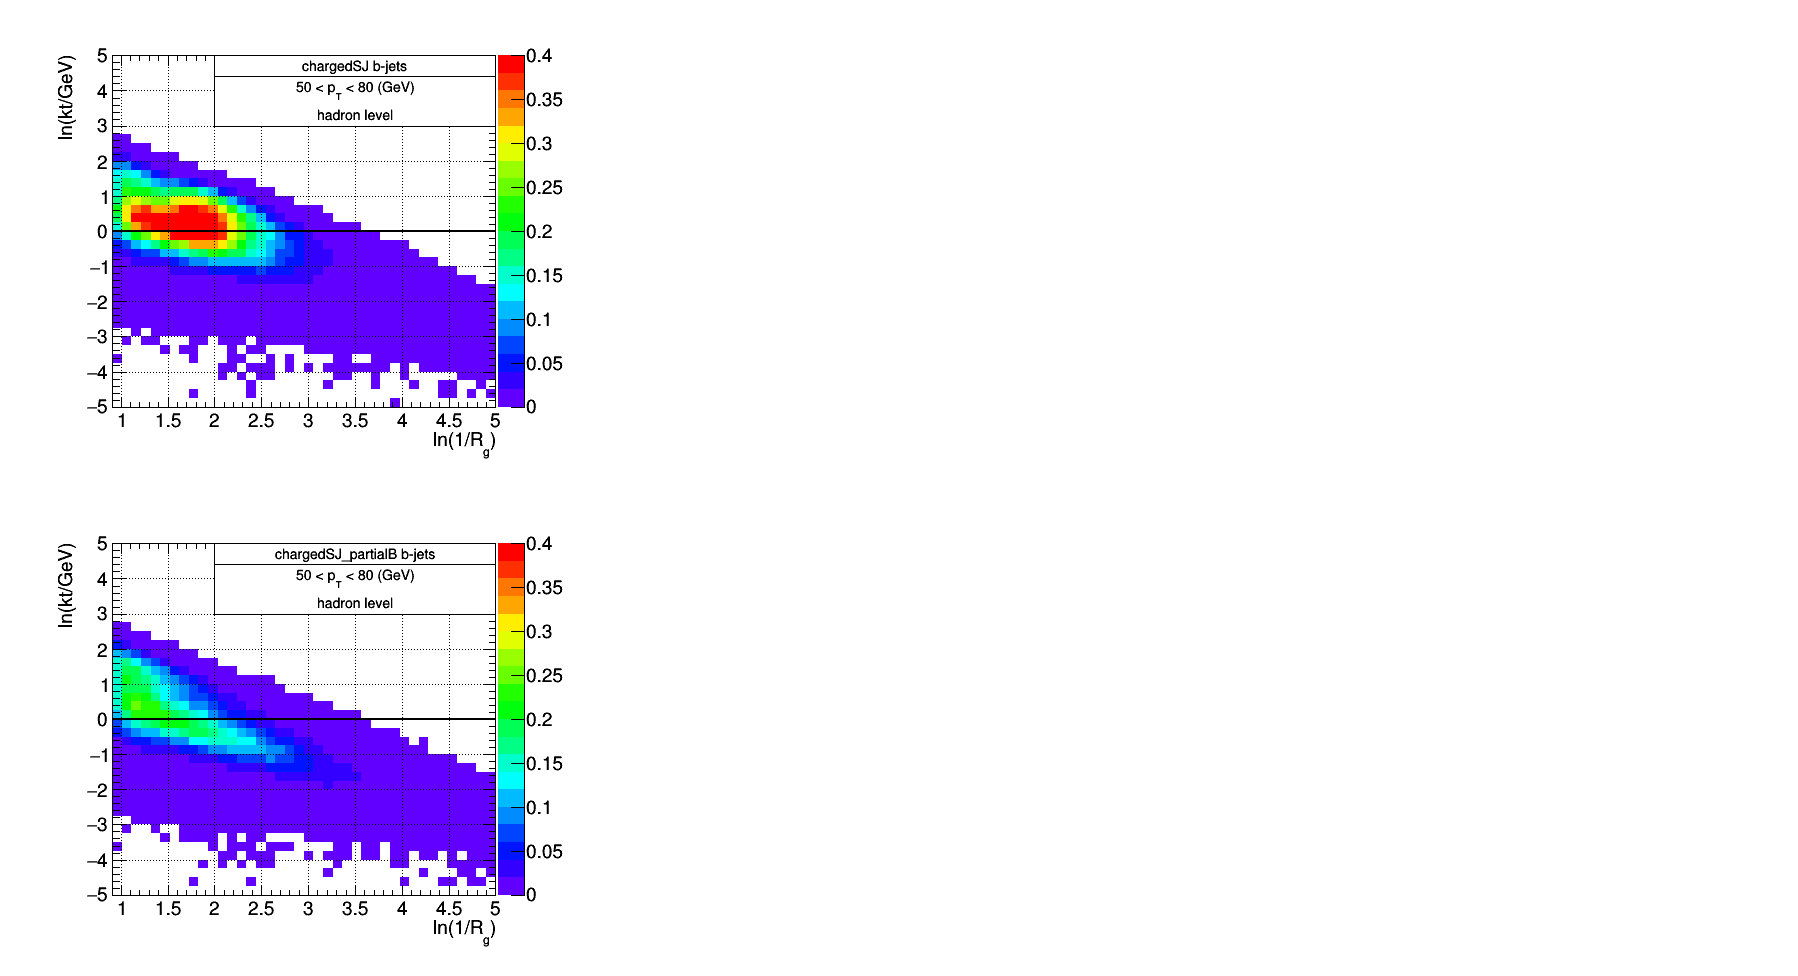
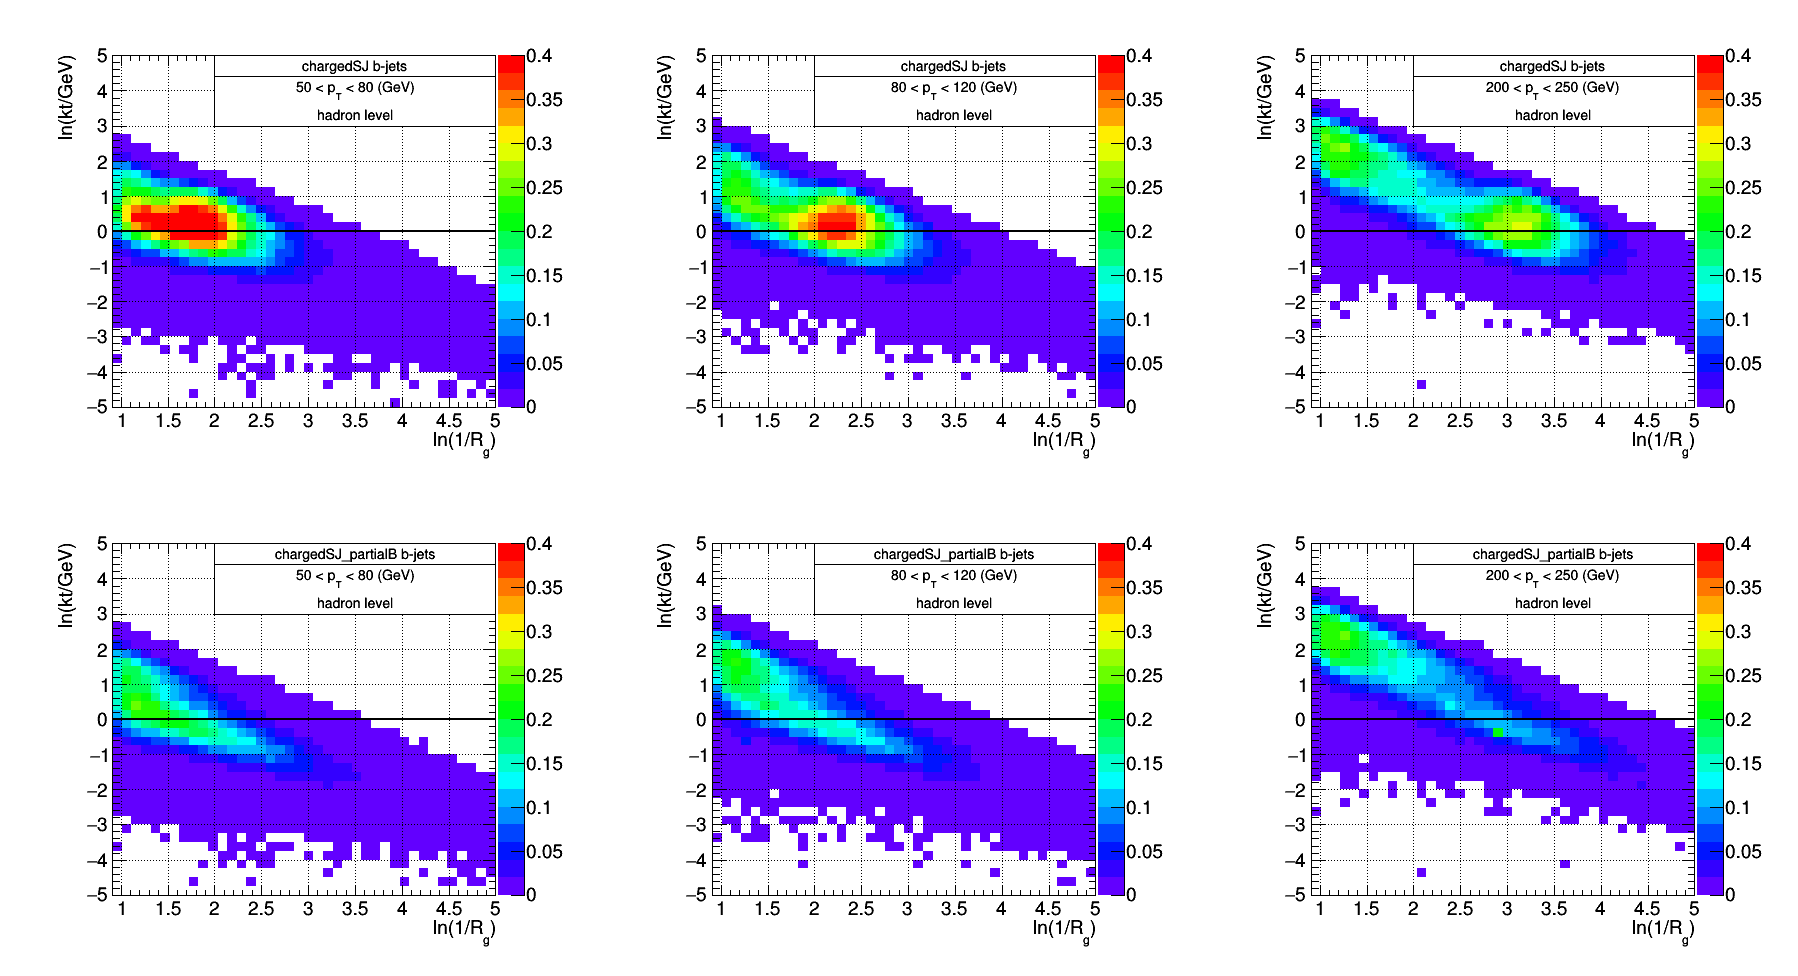
update plots

diff --git a/myMacros/pt2dscan/decay_effect/draw_decay_effect.C b/myMacros/pt2dscan/decay_effect/draw_decay_effect.C
@@ -13,7 +13,7 @@
 
 using namespace std;
 
-void draw_decay_effect(bool chargedSJ = false, bool GSPincl = true)
+void draw_decay_effect(bool chargedSJ = true, bool GSPincl = true)
 {
     cout << "Running with options : " << endl;
     cout << "chargedSJ : " << chargedSJ << endl;
